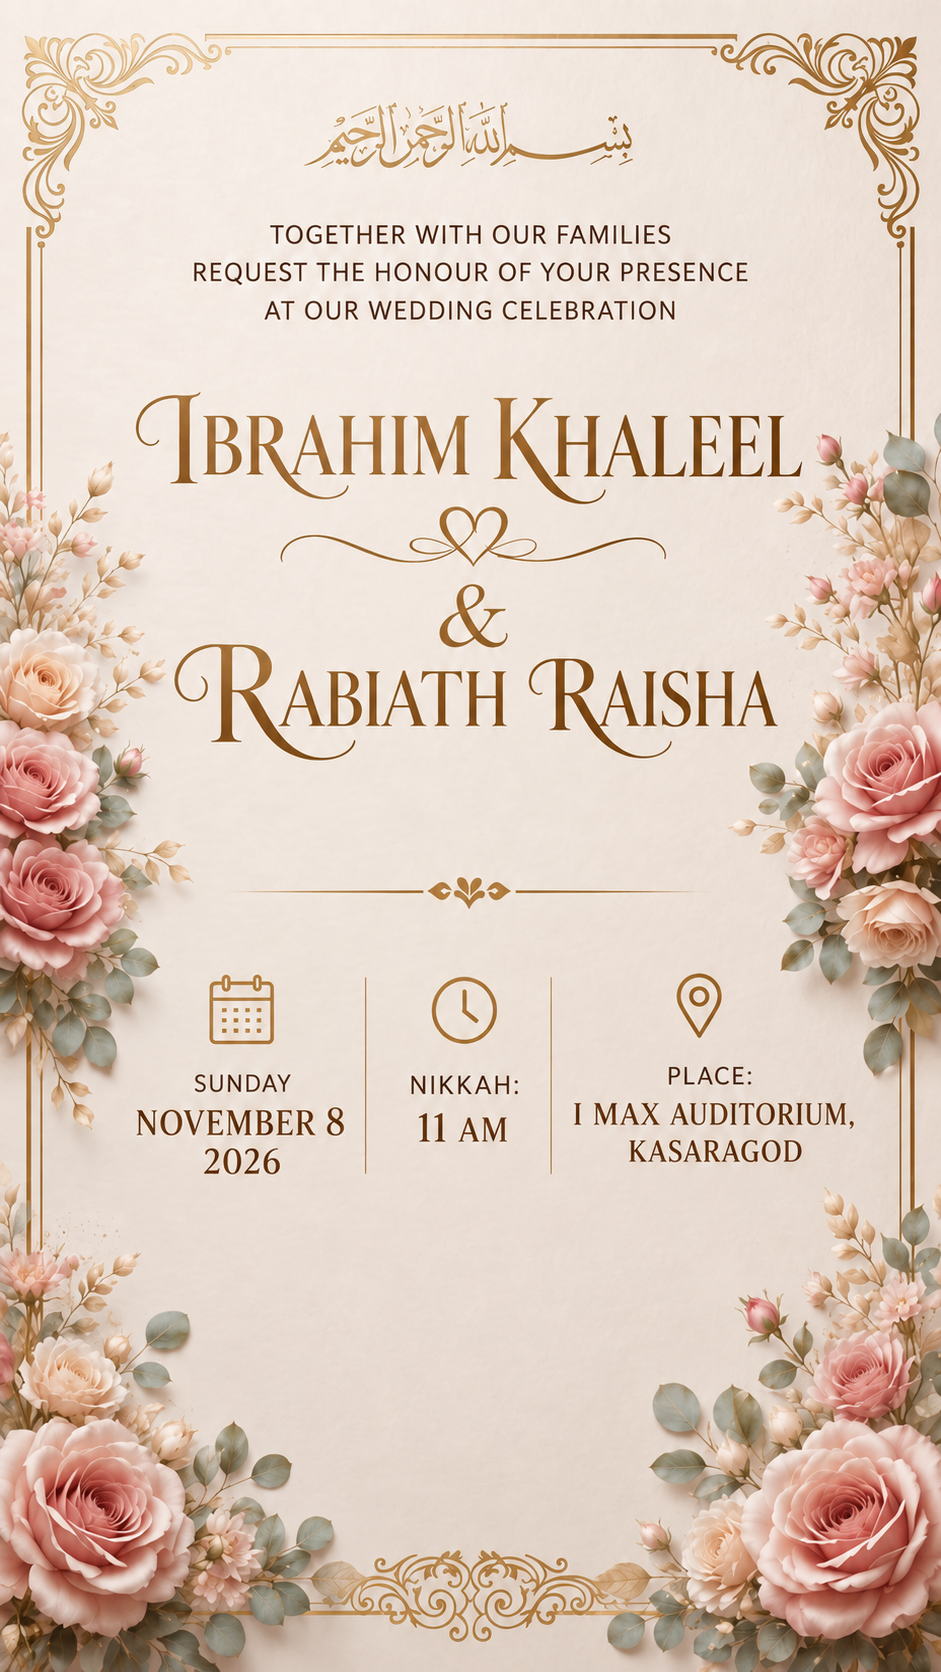
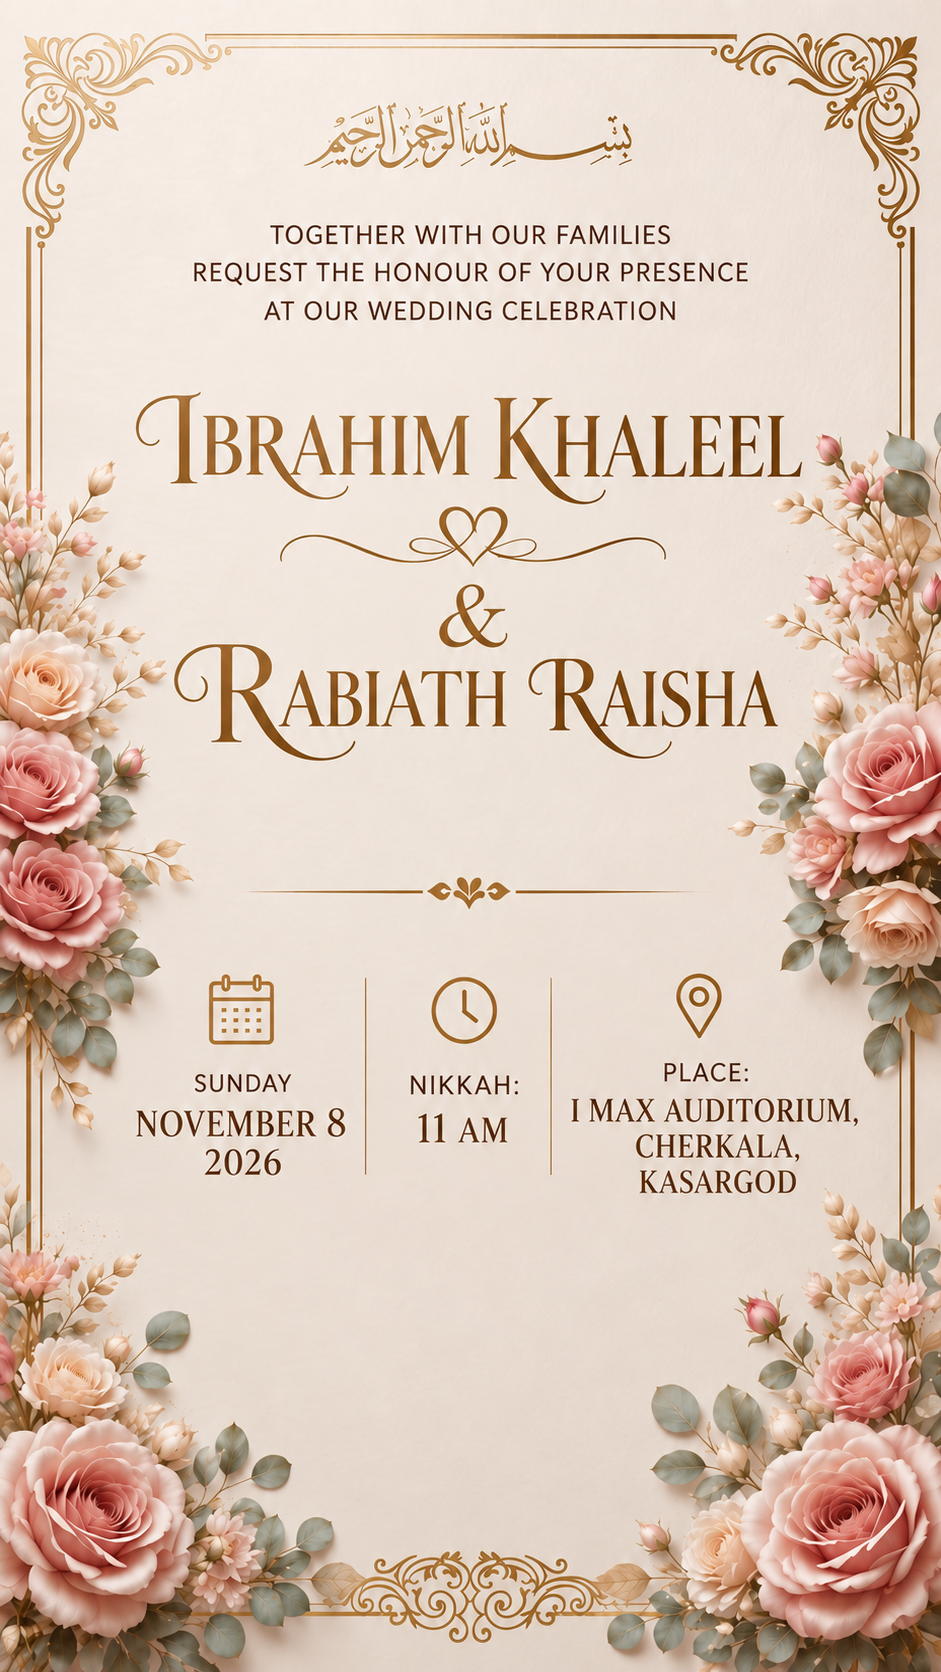
cherkla

diff --git a/index.html b/index.html
@@ -631,11 +631,12 @@ a{color:inherit; text-decoration:none;}
   background: var(--paper);
   border: 1px solid var(--line);
   border-radius: 8px;
-  padding: 44px 28px;
+  padding: 44px 20px;
   text-align:center;
   opacity:0;
   transform: translateY(40px);
   transition: box-shadow .4s ease, transform .4s ease;
+  overflow: visible;
 }
 .detail-card:hover{ box-shadow: 0 20px 50px rgba(212,175,55,0.15); transform: translateY(-6px); }
 .detail-icon{ color: var(--gold); margin-bottom:18px; }
@@ -659,6 +660,9 @@ a{color:inherit; text-decoration:none;}
   font-size: 13px;
   color: var(--charcoal-soft);
   margin-top: 6px;
+  word-break: break-word;
+  white-space: normal;
+  overflow-wrap: break-word;
 }
 .map-cta{ text-align:center; margin-top: 50px; }
 
@@ -1172,7 +1176,7 @@ footer#footer img { display: block; }
           <div class="detail-icon"><svg viewBox="0 0 24 24" fill="none"><path d="M12 22C12 22 19 14.6 19 9.5C19 5.36 15.64 2 12 2C8.36 2 5 5.36 5 9.5C5 14.6 12 22 12 22Z" stroke="#D4AF37" stroke-width="1.3"/><circle cx="12" cy="9.5" r="2.5" stroke="#D4AF37" stroke-width="1.3"/></svg></div>
           <div class="detail-label">Venue</div>
           <div class="detail-main" id="detailVenue">I MAX Auditorium</div>
-          <div class="detail-sub" id="detailVenueSub">Kasaragod</div>
+          <div class="detail-sub" id="detailVenueSub">Cherkala, Kasaragod</div>
         </div>
       </div>
       <div class="map-cta" data-fade>
